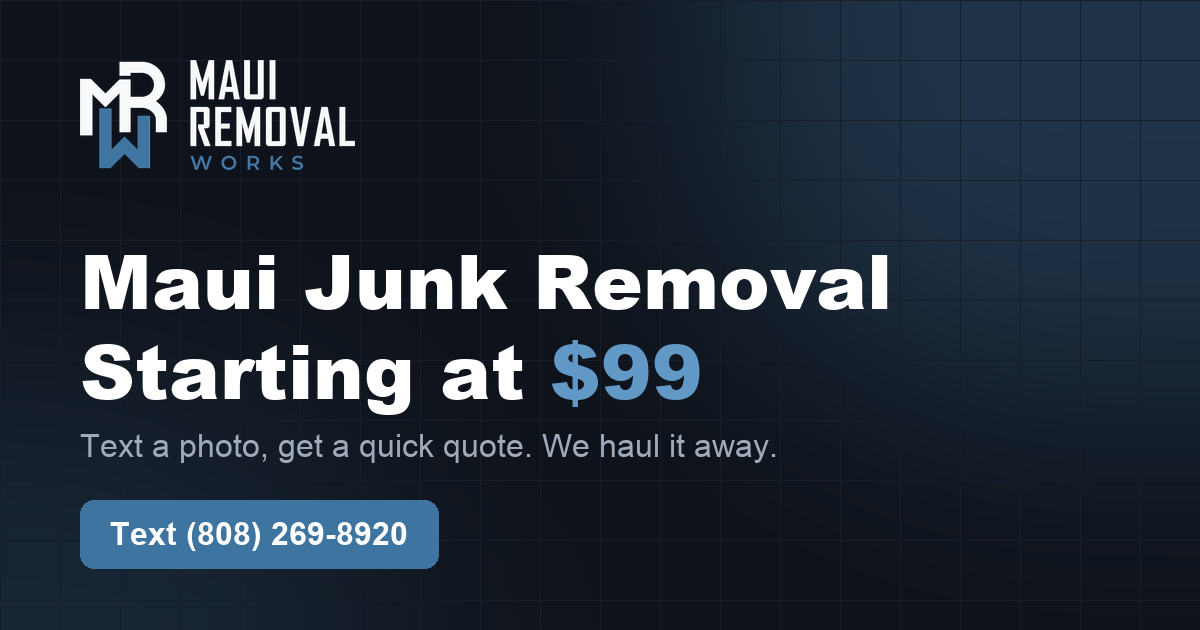
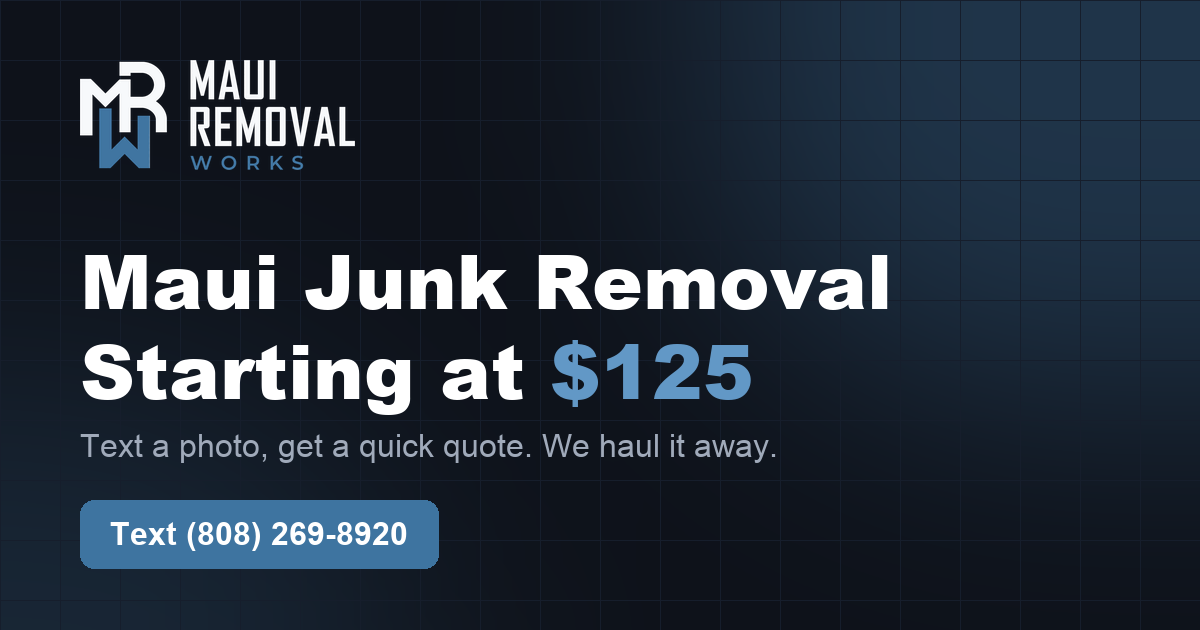
Raise starting price from $99 to $125
Headline, pricing panel, FAQs, page title and description, business schema (priceRange, minPrice) and link-preview image.

Changed region(s): [[0.4933, 0.5429, 0.6475, 0.6333]]

diff --git a/src/routes/index.tsx b/src/routes/index.tsx
@@ -31,8 +31,8 @@ import {
   TEL_LINK,
 } from "../lib/site";
 
-const PAGE_TITLE = "Junk Removal in Maui from $99 | Maui Removal Works";
-const PAGE_DESCRIPTION = `Maui junk removal from $99. Text a photo to ${PHONE_DISPLAY} for a free quote. Furniture, appliances, yard waste & cleanouts across Kīhei, Kahului, Lahaina & more.`;
+const PAGE_TITLE = "Junk Removal in Maui from $125 | Maui Removal Works";
+const PAGE_DESCRIPTION = `Maui junk removal from $125. Text a photo to ${PHONE_DISPLAY} for a free quote. Furniture, appliances, yard waste & cleanouts across Kīhei, Kahului, Lahaina & more.`;
 const OG_IMAGE = `${SITE_URL}/og-image.png`;
 
 export const Route = createFileRoute("/")({
@@ -52,7 +52,7 @@ export const Route = createFileRoute("/")({
       {
         property: "og:image:alt",
         content:
-          "Maui Removal Works — Maui junk removal starting at $99. Text a photo for a quote.",
+          "Maui Removal Works — Maui junk removal starting at $125. Text a photo for a quote.",
       },
       { name: "twitter:title", content: PAGE_TITLE },
       { name: "twitter:description", content: PAGE_DESCRIPTION },
@@ -86,13 +86,13 @@ function structuredData() {
         "@id": `${SITE_URL}/#business`,
         name: BUSINESS_NAME,
         description:
-          "Junk removal serving all of Maui. Text a photo for a quick quote — pickups start at $99.",
+          "Junk removal serving all of Maui. Text a photo for a quick quote — pickups start at $125.",
         url: `${SITE_URL}/`,
         telephone: PHONE_E164,
         email: EMAIL,
         image: OG_IMAGE,
         logo: `${SITE_URL}/logo-512.png`,
-        priceRange: "$99+",
+        priceRange: "$125+",
         sameAs: SOCIAL_LINKS.map((link) => link.url),
         ...(OWNER_NAME && { founder: { "@type": "Person", name: OWNER_NAME } }),
         address: {
@@ -115,7 +115,7 @@ function structuredData() {
           },
           priceSpecification: {
             "@type": "PriceSpecification",
-            minPrice: 99,
+            minPrice: 125,
             priceCurrency: "USD",
           },
         },
@@ -232,7 +232,7 @@ function Hero() {
         <h1 className="mx-auto max-w-3xl font-display text-5xl font-extrabold leading-[1.05] tracking-tight text-foreground sm:text-6xl lg:text-7xl">
           Maui Junk Removal Starting at{" "}
           <span className="bg-gradient-to-r from-primary-glow to-primary bg-clip-text text-transparent">
-            $99
+            $125
           </span>
         </h1>
 
@@ -387,7 +387,7 @@ function Pricing() {
           </p>
           <div className="mt-6 flex items-end gap-3">
             <span className="font-display text-7xl font-extrabold tracking-tight text-foreground sm:text-8xl">
-              $99
+              $125
             </span>
             <span className="pb-3 text-sm font-medium uppercase tracking-widest text-muted-foreground">
               starting
@@ -397,7 +397,7 @@ function Pricing() {
           </div>
           <ul className="mt-8 space-y-4">
             {[
-              "$99 covers a single-item pickup — even if it's just one thing",
+              "$125 covers a single-item pickup — even if it's just one thing",
               "Larger loads are priced from your photo before we lift anything",
               "No hidden fees and no surprise dump charges",
             ].map((point) => (
@@ -475,7 +475,7 @@ function ServiceArea() {
 const FAQS = [
   {
     q: "How much does junk removal cost on Maui?",
-    a: "Every job starts at $99, which covers a single-item pickup. For anything bigger, text us a photo and we'll send you a quote before we lift anything — no hidden fees and no surprise dump charges.",
+    a: "Every job starts at $125, which covers a single-item pickup. For anything bigger, text us a photo and we'll send you a quote before we lift anything — no hidden fees and no surprise dump charges.",
   },
   {
     q: "How does the photo quote work?",
@@ -494,8 +494,8 @@ const FAQS = [
     a: "All of Maui, including Kahului, Wailuku, Kīhei, Wailea, Lahaina, Kāʻanapali, Kapalua, Pukalani, Makawao, Kula, Pāʻia, and Haʻikū.",
   },
   {
-    q: "How does the $99 minimum work?",
-    a: "$99 is our starting price and covers a single-item pickup, even if it's just one thing. Bigger loads cost more, and we price them from your photo before we lift anything — so you'll never get a surprise on pickup day.",
+    q: "How does the $125 minimum work?",
+    a: "$125 is our starting price and covers a single-item pickup, even if it's just one thing. Bigger loads cost more, and we price them from your photo before we lift anything — so you'll never get a surprise on pickup day.",
   },
   {
     q: "Do I need to be home for the pickup?",

diff --git a/roadmap.md b/roadmap.md
@@ -8,3 +8,4 @@
 - [x] Conversion pass: sticky mobile text/call bar, number shown for desktop visitors, single hero CTA
 - [x] Local SEO: Maui keyword in H1/title, canonical, Open Graph image, LocalBusiness + FAQ schema, brand favicons
 - [x] "Meet the owner" section with Keanu's bio and headshot
+- [x] Raise starting price from $99 to $125 across the site, schema and link preview
